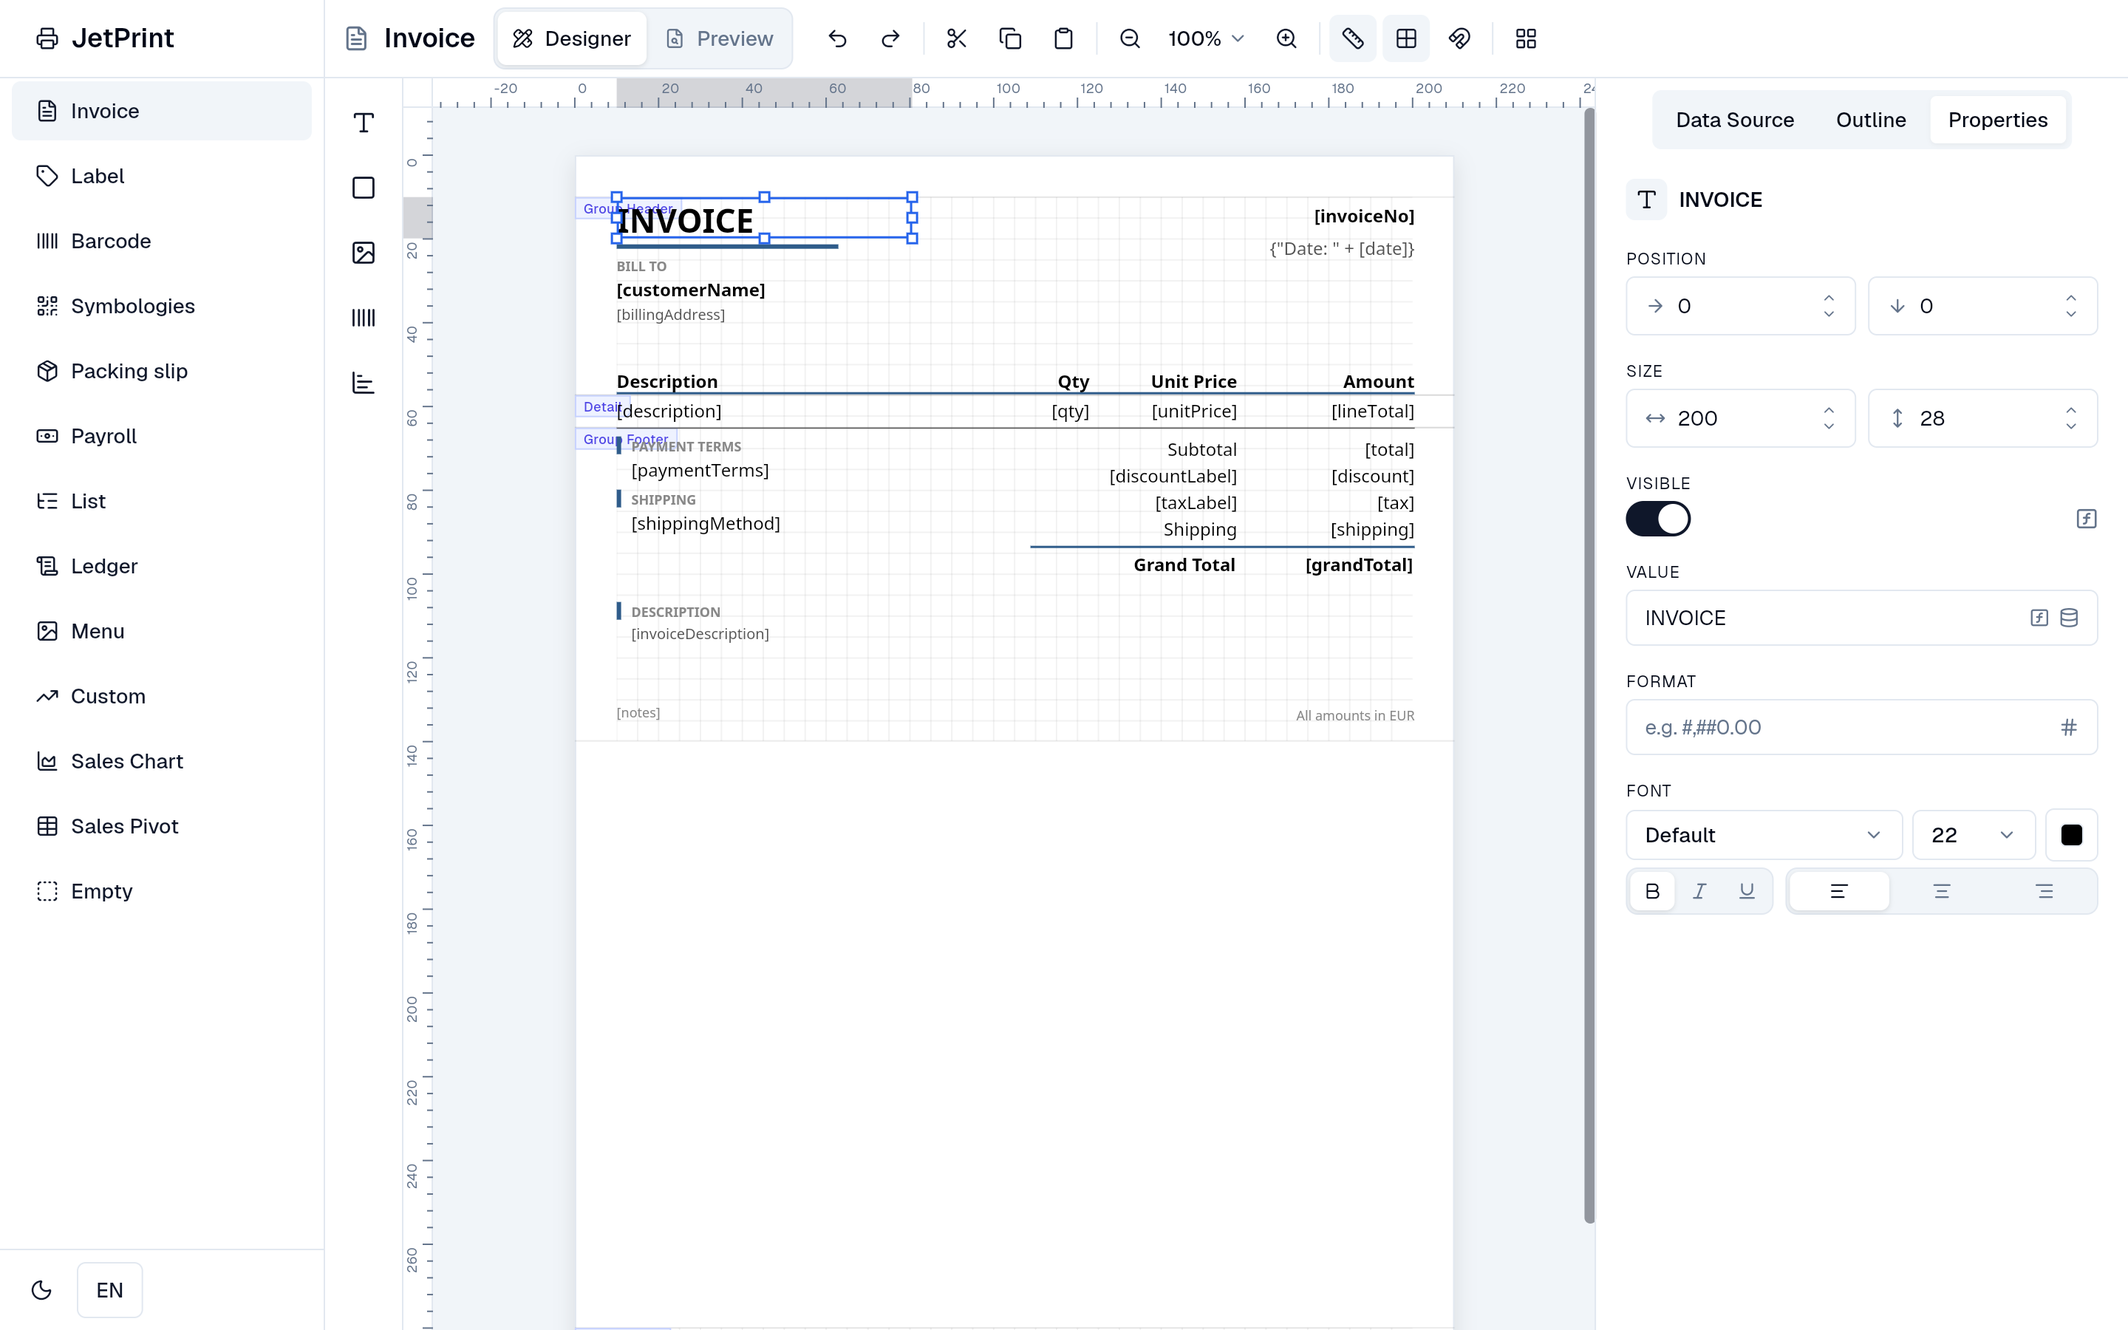
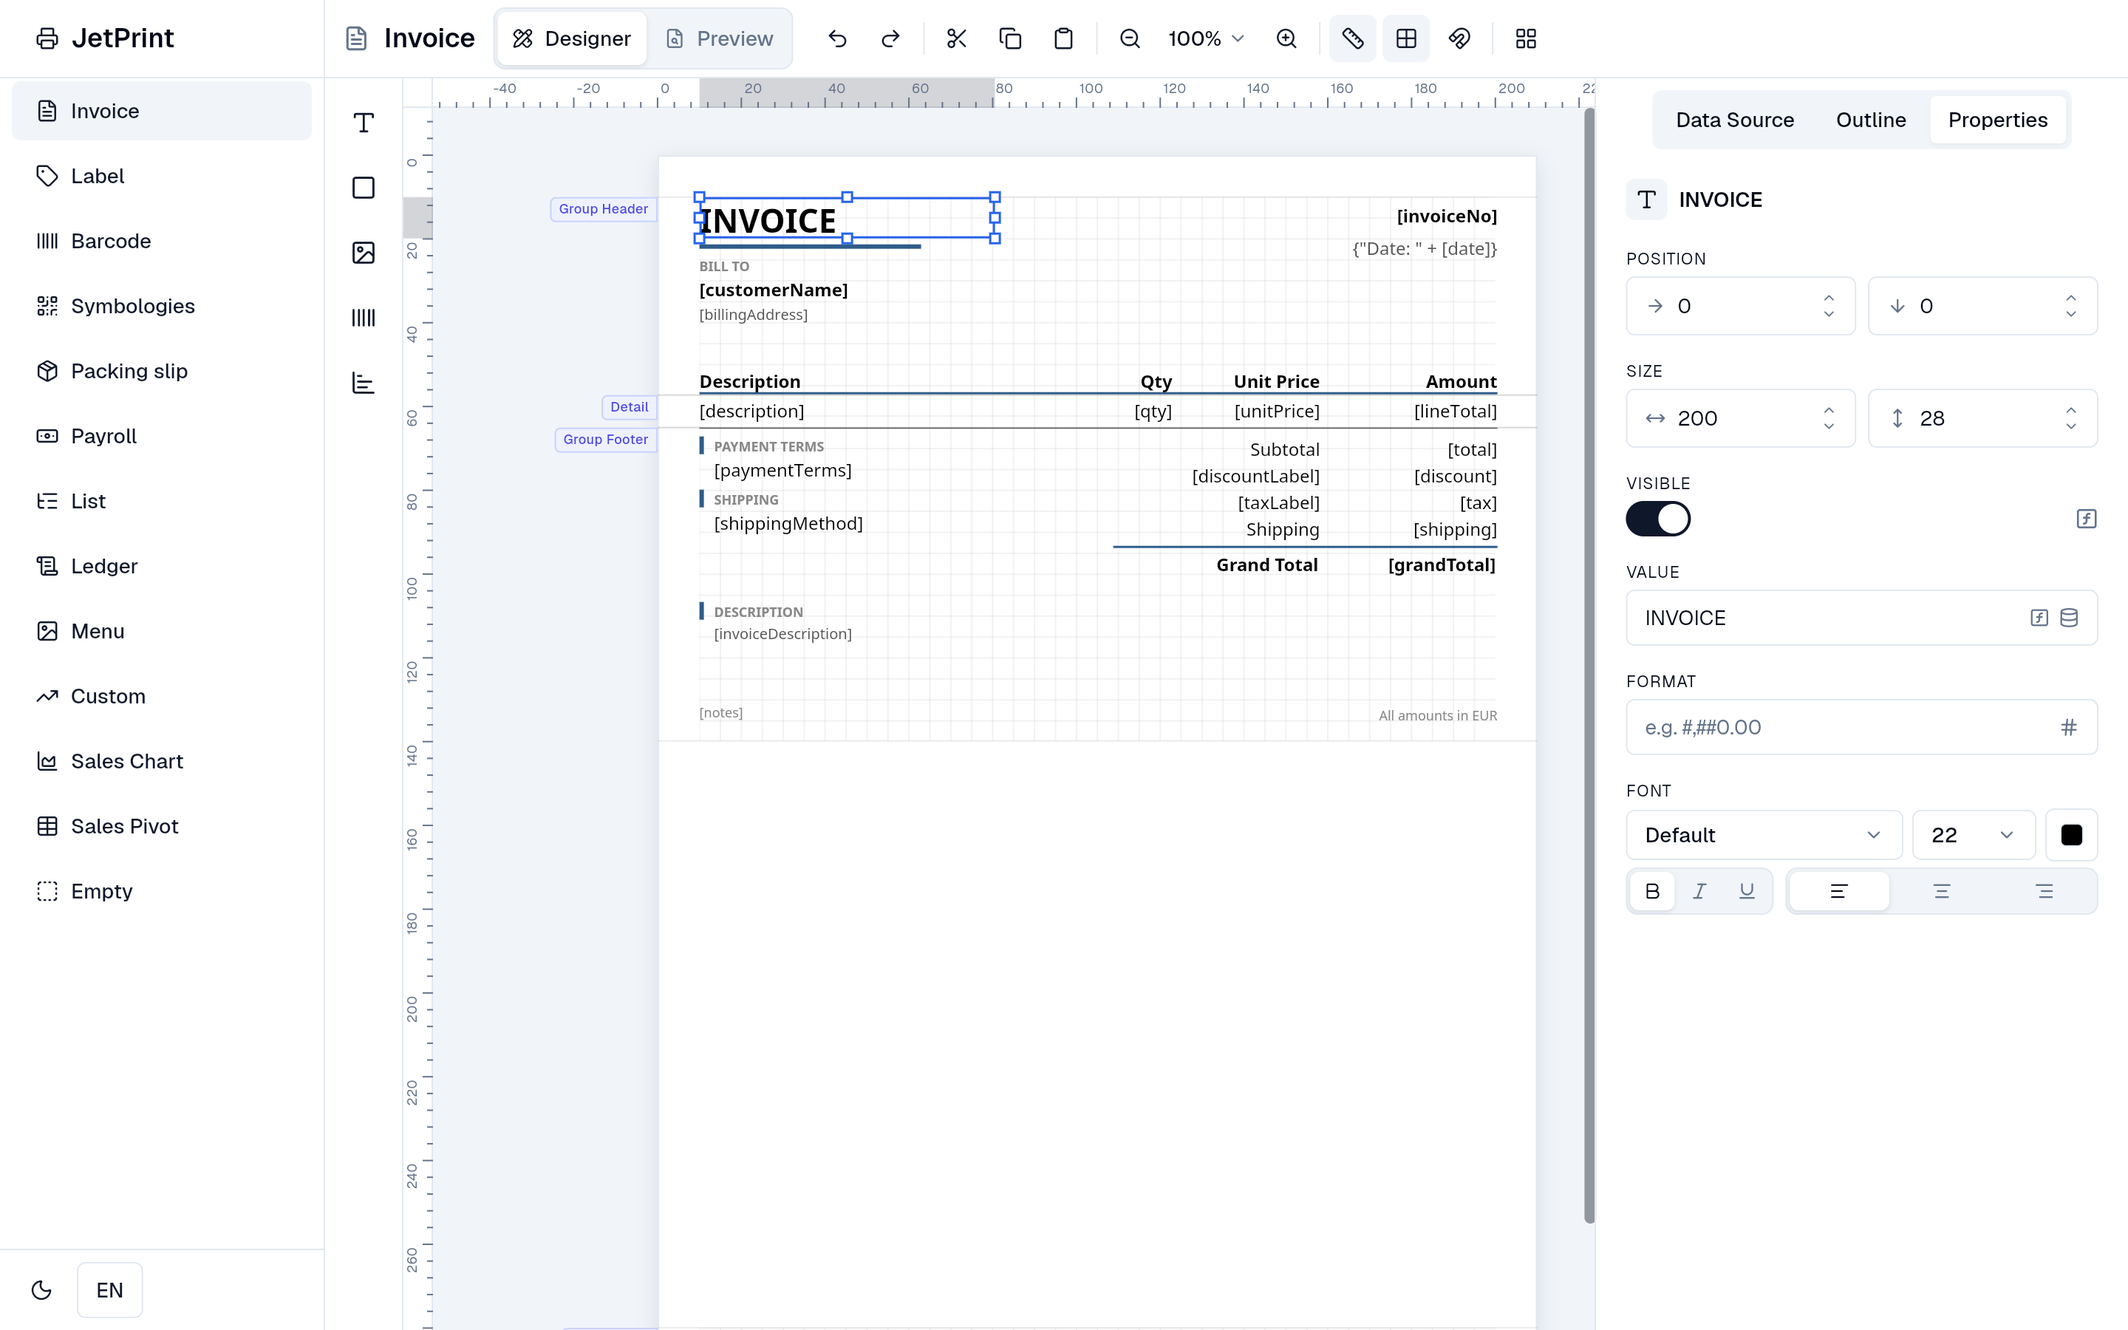
Move band captions beside the page so they never cover content
The designer drew each band caption at the page's left edge, meaning to
keep it in the left margin. A caption is wider than many margins (~70px
for "Group Header", ~100px for the Turkish "Sütun Alt Bilgisi"; an
invoice's margin is ~28pt), so it ran onto the page over the band's
first element.

- The canvas reserves a 112px caption column left of the page and
  centres column and page together. Fit-to-width/page fit the page into
  what the column leaves, so the column is reserved at every zoom.
- Captions are right-aligned against the page's left edge at each band's
  top, as tabs (left corners rounded), ellipsized if a caption outgrows
  the column.
- A tap on a caption still selects its band: the tab's area (column x
  caption height) maps to the band; the rest of the column is canvas, so
  clicking off the paper still clears the selection.
- New band_caption_column_test.dart: captions end at the page's left edge
  and start inside the visible canvas, in English, in Turkish (longest
  captions) and in a narrow window. Existing band_page_select tests (tag
  tap selects the band; off-paper tap clears) pass unchanged.
- README designer screenshots retaken (designer, dark, barcodes).
- ci.yml: a manual `update_goldens` dispatch runs only an update-goldens
  job on macOS, following docs/recipes/update-goldens.md, and uploads the
  regenerated PNGs plus failure images for review. The designer goldens
  move with this change (the page shifts right by half the column) and
[…]

diff --git a/packages/jet_print/lib/src/designer/canvas/design_canvas.dart b/packages/jet_print/lib/src/designer/canvas/design_canvas.dart
@@ -172,6 +172,18 @@ class _DesignCanvasState extends State<DesignCanvas> {
 
   static const double _viewportPadding = 32;
 
+  /// Width of the column left of the page that holds the band captions
+  /// ("Detail", "Group Header", …). Captions live beside the page rather than
+  /// on it: one is wider than many reports' left margin, so on the page it
+  /// covered the first element of its band. Sized for the longest caption in
+  /// any shipped language (Turkish "Sütun Alt Bilgisi"); a longer one is
+  /// ellipsized. Screen pixels, so it does not scale with zoom.
+  static const double _captionColumnWidth = 112;
+
+  /// Height of one band caption tab, in screen pixels. Fixed so the tap
+  /// handler knows where a caption is without measuring it.
+  static const double _captionHeight = 17;
+
   /// Pointer kinds whose drags drive canvas interactions (move / marquee /
   /// resize). The trackpad is excluded so a two-finger trackpad pan scrolls the
   /// viewport instead of starting a rubber-band selection.
@@ -433,10 +445,14 @@ class _DesignCanvasState extends State<DesignCanvas> {
                 _viewInitialized = true;
                 _appliedFitRequest = controller.fitRequest;
                 _lastFitViewport = viewport;
+                // Fit the page to what the caption column leaves of the width.
+                final Size fitViewport = Size(
+                    math.max(0, viewport.width - _captionColumnWidth),
+                    viewport.height);
                 final double fitted = controller.viewFitMode ==
                         JetViewFitMode.page
-                    ? fitPageScale(layout.size, viewport, _viewportPadding)
-                    : fitWidthScale(layout.size, viewport, _viewportPadding);
+                    ? fitPageScale(layout.size, fitViewport, _viewportPadding)
+                    : fitWidthScale(layout.size, fitViewport, _viewportPadding);
                 controller.setViewScale(fitted);
                 if (_vScroll.hasClients) _vScroll.jumpTo(0);
                 if (_hScroll.hasClients) _hScroll.jumpTo(0);
@@ -455,15 +471,19 @@ class _DesignCanvasState extends State<DesignCanvas> {
             final double scale = controller.viewScale;
             final double pageW = layout.size.width * scale;
             final double pageH = layout.size.height * scale;
-            // The scroll content is the page plus padding, but never smaller than
-            // the viewport — so a page that fits is centered, and a larger one
-            // scrolls. The page is centered within that content.
-            final double contentW =
-                math.max(pageW + 2 * _viewportPadding, viewport.width);
+            // The scroll content is the caption column, the page and padding,
+            // but never smaller than the viewport — so a page that fits is
+            // centered, and a larger one scrolls. The column and page are
+            // centered together, the page to the column's right.
+            final double contentW = math.max(
+                _captionColumnWidth + pageW + 2 * _viewportPadding,
+                viewport.width);
             final double contentH =
                 math.max(pageH + 2 * _viewportPadding, viewport.height);
-            final JetOffset pageOffset =
-                JetOffset((contentW - pageW) / 2, (contentH - pageH) / 2);
+            final JetOffset pageOffset = JetOffset(
+                (contentW - _captionColumnWidth - pageW) / 2 +
+                    _captionColumnWidth,
+                (contentH - pageH) / 2);
             final CanvasViewTransform transform =
                 CanvasViewTransform(scale: scale, pan: pageOffset);
             final bool vScrollable = contentH > viewport.height + 0.5;
@@ -556,6 +576,8 @@ class _DesignCanvasState extends State<DesignCanvas> {
                             child: _buildPage(controller, layout, displayLayout,
                                 scale, colors, isEmpty),
                           ),
+                          // Band captions, in the column left of the page.
+                          ..._bandBadges(displayLayout, scale, pageOffset),
                         ],
                       ),
                     ),

diff --git a/packages/jet_print/lib/src/designer/canvas/design_canvas/build_helpers.dart b/packages/jet_print/lib/src/designer/canvas/design_canvas/build_helpers.dart
@@ -84,10 +84,6 @@ extension _CanvasBuild on _DesignCanvasState {
                         ),
                       ),
                     ),
-                  // Band-type captions, one per band, anchored at each band's
-                  // top-left corner. Drawn below element appearance so an element
-                  // sharing the corner visually wins; they never capture pointers.
-                  ..._bandBadges(controller, displayLayout, scale),
                   // Element appearance via the shared render pipeline (cached).
                   Positioned.fill(
                     child: CustomPaint(
@@ -158,28 +154,34 @@ extension _CanvasBuild on _DesignCanvasState {
     );
   }
 
-  /// One badge per band, anchored at the page's left edge and each band's top.
-  /// Anchoring at the page edge (left: 0) rather than the content margin keeps
-  /// the caption in the empty left-margin gutter so it never sits on top of the
-  /// first element (which starts at the margin). The badge size is constant (UI
-  /// chrome), so captions stay legible at any zoom; only the top anchor scales
-  /// with the view.
+  /// One caption per band, in the column left of the page ([pageOffset] is the
+  /// page's top-left in the canvas content): right-aligned against the page
+  /// edge at the band's top, so it reads as a tab on the band without covering
+  /// anything on the page. The caption size is constant (UI chrome), so it
+  /// stays legible at any zoom; only the top anchor scales with the view. A
+  /// tap on it falls through to the canvas, which selects the band
+  /// (`_handleTapDown`).
   List<Widget> _bandBadges(
-    JetReportDesignerController controller,
     DesignTimeLayout layout,
     double scale,
+    JetOffset pageOffset,
   ) {
     final JetPrintLocalizations l10n = JetPrintLocalizations.of(context);
+    const double inset = 4; // from the column's outer edge
     final List<Widget> badges = <Widget>[];
     for (final PlacedBand placed in layout.bands) {
       badges.add(Positioned(
         // Keyed by the band's stable id so duplicate band types (e.g. several
         // group headers) never produce a duplicate key.
         key: ValueKey<String>('jet_print.designer.bandBadge.${placed.id}'),
-        left: 0,
-        top: placed.rect.y * scale,
+        left: pageOffset.dx - _DesignCanvasState._captionColumnWidth + inset,
+        width: _DesignCanvasState._captionColumnWidth - inset,
+        top: pageOffset.dy + placed.rect.y * scale,
         child: IgnorePointer(
-          child: _BandBadge(caption: bandTypeLabel(placed.band.type, l10n)),
+          child: Align(
+            alignment: Alignment.topRight,
+            child: _BandBadge(caption: bandTypeLabel(placed.band.type, l10n)),
+          ),
         ),
       ));
     }

diff --git a/packages/jet_print/lib/src/designer/canvas/design_canvas/widgets.dart b/packages/jet_print/lib/src/designer/canvas/design_canvas/widgets.dart
@@ -96,11 +96,12 @@ class _CanvasScrollbar extends StatelessWidget {
   }
 }
 
-/// A small, subtle caption naming a band's role, sat flush in the band's
-/// top-left corner (a "tab" — only the bottom-right corner is rounded). This is
-/// the band-identity affordance every report designer surfaces; it uses the
-/// fixed paper-chrome palette (not the app theme) so it reads on the white page
-/// in every theme, and stays muted so it never competes with band content.
+/// A small, subtle caption naming a band's role: a tab beside the page, its
+/// square right side against the page's left edge at the band's top (only the
+/// left corners are rounded). This is the band-identity affordance every
+/// report designer surfaces; it carries its own fill from the fixed
+/// paper-chrome palette (not the app theme), so it reads on the canvas in
+/// every theme, and stays muted so it never competes with band content.
 class _BandBadge extends StatelessWidget {
   const _BandBadge({required this.caption});
 
@@ -108,22 +109,32 @@ class _BandBadge extends StatelessWidget {
 
   @override
   Widget build(BuildContext context) {
-    return DecoratedBox(
-      decoration: const BoxDecoration(
-        color: _badgeBackgroundColor,
-        border: Border.fromBorderSide(BorderSide(color: _badgeBorderColor)),
-        borderRadius: BorderRadius.only(bottomRight: Radius.circular(4)),
-      ),
-      child: Padding(
-        padding: const EdgeInsets.symmetric(horizontal: 6, vertical: 2),
-        child: Text(
-          caption,
-          style: const TextStyle(
-            fontSize: 9,
-            height: 1.2,
-            fontWeight: FontWeight.w500,
-            letterSpacing: 0.2,
-            color: _badgeForegroundColor,
+    return SizedBox(
+      height: _DesignCanvasState._captionHeight,
+      child: DecoratedBox(
+        decoration: const BoxDecoration(
+          color: _badgeBackgroundColor,
+          border: Border.fromBorderSide(BorderSide(color: _badgeBorderColor)),
+          // A tab on the band's top edge, attached to the page's left side.
+          borderRadius: BorderRadius.only(
+            topLeft: Radius.circular(4),
+            bottomLeft: Radius.circular(4),
+          ),
+        ),
+        child: Padding(
+          padding: const EdgeInsets.symmetric(horizontal: 6, vertical: 2),
+          child: Text(
+            caption,
+            maxLines: 1,
+            softWrap: false,
+            overflow: TextOverflow.ellipsis,
+            style: const TextStyle(
+              fontSize: 9,
+              height: 1.2,
+              fontWeight: FontWeight.w500,
+              letterSpacing: 0.2,
+              color: _badgeForegroundColor,
+            ),
           ),
         ),
       ),

diff --git a/packages/jet_print/test/designer/canvas/band_caption_column_test.dart b/packages/jet_print/test/designer/canvas/band_caption_column_test.dart
@@ -1,0 +1,57 @@
+// Band captions ("Page Header", "Detail", "Group Header", …) sit in a column
+// to the LEFT of the page, never on it. A caption is wider than many reports'
+// left margin (~70px for "Group Header", ~100px for the Turkish "Sütun Alt
+// Bilgisi" against an invoice's 28pt margin), so drawn on the page it covered
+// the first element of its band.
+import 'package:flutter/widgets.dart';
+import 'package:flutter_test/flutter_test.dart';
+
+import '../support/designer_harness.dart';
+
+const List<String> _defaultBands = <String>[
+  'pageHeader',
+  'detail',
+  'pageFooter'
+];
+
+Finder _caption(String bandId) =>
+    find.byKey(ValueKey<String>('jet_print.designer.bandBadge.$bandId'));
+
+void _expectCaptionsBesideThePage(WidgetTester tester) {
+  final Rect page = tester.getRect(find.byKey(kDesignPageKey));
+  for (final String band in _defaultBands) {
+    final Finder caption = _caption(band);
+    expect(caption, findsOneWidget, reason: band);
+    final Rect r = tester.getRect(caption);
+    // The canvas viewport: the scroll view the caption scrolls inside.
+    final Rect viewport = tester.getRect(find
+        .ancestor(of: caption, matching: find.byType(SingleChildScrollView))
+        .first);
+    expect(r.right, lessThanOrEqualTo(page.left),
+        reason: '$band caption must not reach onto the page');
+    expect(r.left, greaterThanOrEqualTo(viewport.left),
+        reason: '$band caption must stay inside the visible canvas');
+  }
+}
+
+void main() {
+  testWidgets('band captions sit beside the page, not on it',
+      (WidgetTester tester) async {
+    await pumpDesignerWith(tester);
+    _expectCaptionsBesideThePage(tester);
+  });
+
+  testWidgets('the longest (Turkish) captions still fit beside the page',
+      (WidgetTester tester) async {
+    await pumpDesignerWith(tester, locale: const Locale('tr'));
+    _expectCaptionsBesideThePage(tester);
+  });
+
+  testWidgets('captions stay beside the page in a narrow window',
+      (WidgetTester tester) async {
+    // Fit-to-width: the page fills the canvas, so the caption column has to be
+    // reserved by the fit, not just left over.
+    await pumpDesignerWith(tester, size: const Size(1100, 800));
+    _expectCaptionsBesideThePage(tester);
+  });
+}

diff --git a/packages/jet_print/lib/src/designer/canvas/design_canvas/gestures.dart b/packages/jet_print/lib/src/designer/canvas/design_canvas/gestures.dart
@@ -31,8 +31,14 @@ extension _CanvasGestures on _DesignCanvasState {
       // Defer band/report/clear classification — and any double-tap focus — to
       // tap-up: if this press turns into a drag (marquee or a band-handle
       // resize) the tap is cancelled and the selection is left alone.
-      // Shift+empty leaves the selection as-is.
-      _emptyTapPage = _shiftPressed ? null : page;
+      // Shift+empty leaves the selection as-is. A tap on a band's caption
+      // (in the column beside the page) counts as a tap on that band, so
+      // clicking a caption selects its band; the rest of the column is canvas.
+      final double? captionBandY =
+          _captionBandYAt(localPosition, transform, layout);
+      final JetOffset target =
+          captionBandY == null ? page : JetOffset(0, captionBandY);
+      _emptyTapPage = _shiftPressed ? null : target;
       _emptyTapWasDouble = near && !_shiftPressed;
       _trackTap(localPosition, near: near);
       return;
@@ -159,6 +165,31 @@ extension _CanvasGestures on _DesignCanvasState {
       controller.selectReport();
     }
     return true;
+  }
+
+  /// A page-space point inside the band whose caption tab is under [local] (a
+  /// canvas-content position), or null when [local] is not on a caption. A
+  /// caption fills the column left of the page, [_DesignCanvasState
+  /// ._captionHeight] tall from its band's top (see `_bandBadges`).
+  double? _captionBandYAt(
+    Offset local,
+    CanvasViewTransform transform,
+    DesignTimeLayout layout,
+  ) {
+    final double pageLeft = transform.pan.dx;
+    if (local.dx >= pageLeft ||
+        local.dx < pageLeft - _DesignCanvasState._captionColumnWidth) {
+      return null;
+    }
+    for (final PlacedBand band in layout.bands) {
+      final double top = transform.pan.dy + band.rect.y * transform.scale;
+      if (local.dy >= top &&
+          local.dy <= top + _DesignCanvasState._captionHeight) {
+        // The band's middle: its top edge is also the previous band's bottom.
+        return band.rect.y + band.rect.height / 2;
+      }
+    }
+    return null;
   }
 
   bool get _shiftPressed =>

diff --git a/packages/jet_print/CHANGELOG.md b/packages/jet_print/CHANGELOG.md
@@ -28,6 +28,15 @@ adheres to [Semantic Versioning](https://semver.org/spec/v2.0.0.html).
 
 ### Fixed
 
+- **Band captions no longer cover the first element of a band.** The
+  designer's band captions ("Group Header", "Detail", …) were drawn in the
+  page's left margin, but a caption is wider than many margins (~70px for
+  "Group Header", ~100px in Turkish), so it ran onto the page and over
+  whatever started there. They now sit in a column beside the page,
+  right-aligned against its left edge at each band's top. Fit-to-width and
+  fit-to-page leave room for the column, and clicking a caption still selects
+  its band.
+
 - **The package compiles at the lowest dependency versions it allows.**
   `shadcn_ui` allows `lucide_icons_flutter` 3.0.0, but some icons the designer
   uses are missing from versions before 3.1.14 (`textAlignStart`/`Center`/`End`
